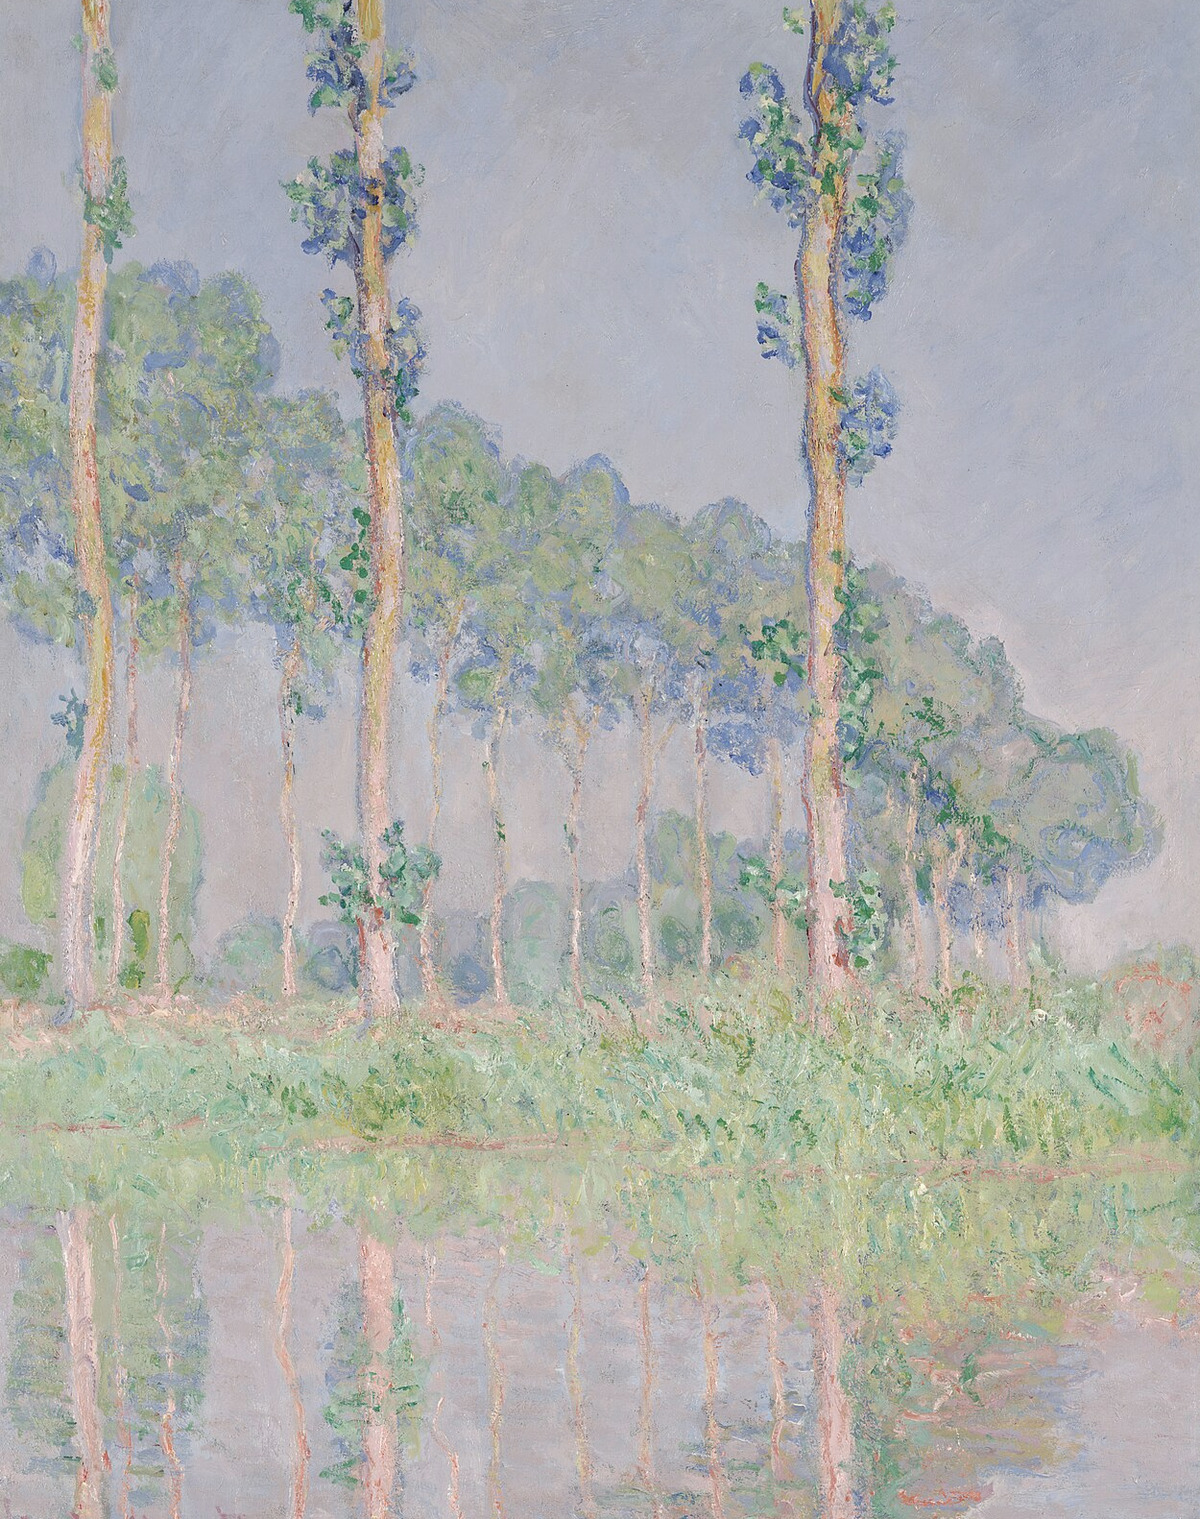
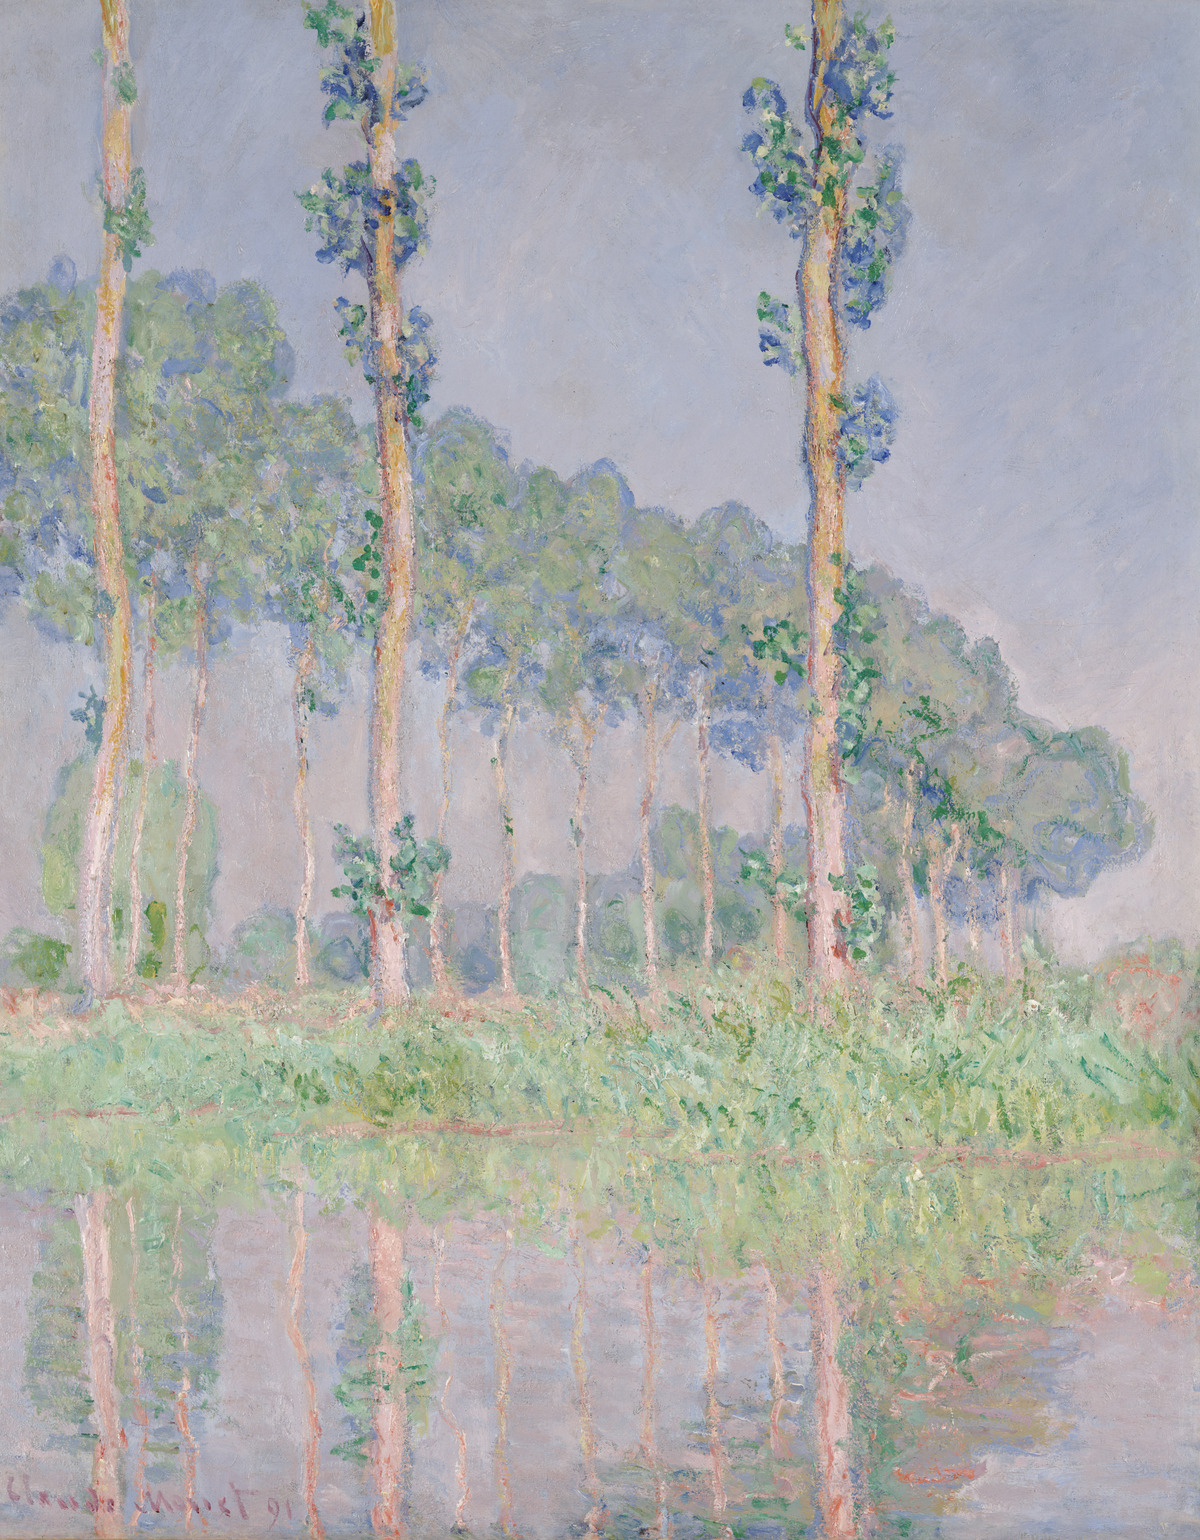
feat(B1-1): rebake 01-dallas from HD master (1200×1540)
Replace the Commons stand-in with dallas_lespeupliers_5497x7054.jpg
(EXIF transpose, LANCZOS width=1200, HSV S×0.88, no frame crop).
Remove temporary painting/masters/ so HD stays out of git.

diff --git a/scripts/prep-painting.py b/scripts/prep-painting.py
@@ -304,8 +304,11 @@ def write_source_json(out: Path, meta: dict) -> None:
         payload["standIn"] = False
         payload["note"] = (
             "Unique in-repo 1200px source after EXIF bake + S×0.88. "
+            f"Baked from {meta.get('input')} ({meta.get('input_size')}); "
             "HD master stays out of git."
         )
+        payload["master"] = meta.get("input")
+        payload["masterSize"] = meta.get("input_size")
     SOURCE_JSON.write_text(json.dumps(payload, indent=2, ensure_ascii=False) + "\n")
 
 
@@ -404,6 +407,7 @@ def run(argv: list[str] | None = None) -> int:
     if args.self_test:
         self_test_exif_rotate()
         print("exif_transpose fixture: ok")
+        return 0
 
     src, dallas = discover_input(args.input)
     if not src.exists():

diff --git a/HANDOFF.md b/HANDOFF.md
@@ -10,13 +10,13 @@
 
 ## 当前进度（云端 Track A）
 
-手册 **B1-1 已完成**，停在等「继续」。不要开 B1-2（12k 采样 / points v2）。
+手册 **B1-1 已完成（HD 重烤）**，停在等「继续」。不要开 B1-2（12k 采样 / points v2）。
 
-- 工程内唯一源：`painting/01-dallas.jpg`（1200×1519，EXIF 已烘焙、画心裁切、HSV S×0.88）
-- 元数据：`painting/source.json`；脚本：`scripts/prep-painting.py`
-- 作者本机 `C:\Users\mon_7\Downloads\narrative-forge-web\painting` **没有进云端克隆**。本条按手册用「01 达拉斯」公版预览跑通管线。换成作者选定图：`python3 scripts/prep-painting.py --input <file>`
+- 工程内唯一源：`painting/01-dallas.jpg`（**1200×1540**，由 `dallas_lespeupliers_5497x7054.jpg` EXIF 烘焙 + LANCZOS + HSV S×0.88；**无画框裁切**，master 已是画心）
+- 元数据：`painting/source.json`（`standIn: false`）；脚本：`scripts/prep-painting.py`
+- 作者临时放入的 `painting/masters/` **已处理完并从 git 移除**（高清不进项目）
 - 原型仍加载 `prototype/points.json`（NF 字形），**还没接画作**
-- 本条分支：`cursor/b1-1-dallas-preview-ae29`（叠在 `cursor/remove-nav-start-ae29` 上）
+- 本条分支：`cursor/b1-1-hd-bake-52ec`（叠在 `cursor/b1-1-dallas-preview-ae29` 上）
 
 ---
 
@@ -115,7 +115,7 @@ Next.js 16，API 与训练记忆可能不同。改 Next 代码前读 `node_modul
 - `prototype/points.json` `{ "points": [{x,y}, ...] }` 归一化 0..1，约 1630 点
 - `prototype/gen-points.mjs` 确定性栅格 **N / F**（mulberry32 seed `0x4e46`），落在左约 62%，避免压到报章。另有脊线+底边粉尘。
 
-规格要作者选定的 Monet 英雄图。B1-1 已把「01 达拉斯」公版预览做成 `painting/01-dallas.jpg`；**粒子仍是 NF 字母替身**，等 B1-2 才采样。作者 `painting/` 里若另有主视觉，先重跑预处理再采。
+规格要作者选定的 Monet 英雄图。B1-1 已用达拉斯 HD master 烤成 `painting/01-dallas.jpg`（1200×1540，S×0.88，`standIn: false`）；**粒子仍是 NF 字母替身**，等 B1-2 才采样。
 
 数量分档：桌面 1600 / 中 1280 / 窄 960。
 
@@ -162,7 +162,7 @@ IDLE 0.14  POINTER_LERP 0.2  SIZES [4,6,8]
 ## 未完成 / 已知问题
 
 1. 轨道 B 未开始（原型未验收，不要擅自灌进 Next）。
-2. `points.json` 仍是像素 NF。B1-1 已有达拉斯 1200px 预览，**采样成 12k 点要等 B1-2**。作者本机 `painting/` 若有另一张主视觉，用 `scripts/prep-painting.py --input` 替换后再采。
+2. `points.json` 仍是像素 NF。B1-1 已有达拉斯 HD 烤制的 1200×1540 预览，**采样成 12k 点要等 B1-2**。换主视觉：`scripts/prep-painting.py --input <master>`。
 3. 大厅目录在窄报章栏会按字折行。
 4. 介绍 / 大厅 / 社区成画也是同一套 NF 字形；彩蛋是首页多一条入口，不是唯一触发。若用户要把字形改成「只有彩蛋才出现」，先问再改。
 5. 原型「打开完整大厅/社区页」依赖 localhost:3000。
